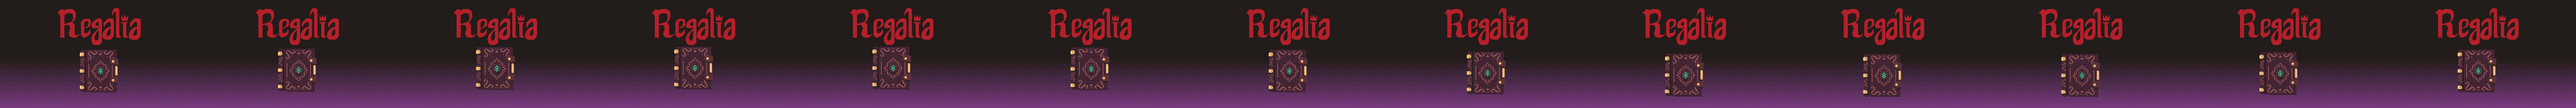
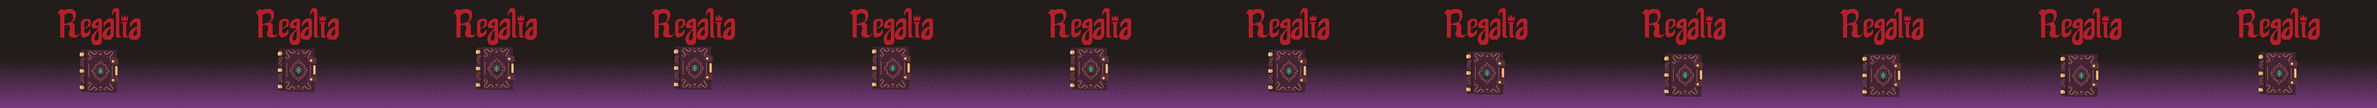
Improves initial animation

diff --git a/regalia/include/Constants.h b/regalia/include/Constants.h
@@ -77,12 +77,12 @@ namespace Menu {
 
 	const SpriteSheetData BackgroundInitial(
 	    "assets/img/menu/background_initial.png",
-	    6240,
+	    5760,
 	    264,
 	    100,
 	    1,
 	    { 
-			{ 0, 13 }, 
+			{ 0, 12 }, 
 		});
 
 	const SpriteSheetData Credits(
